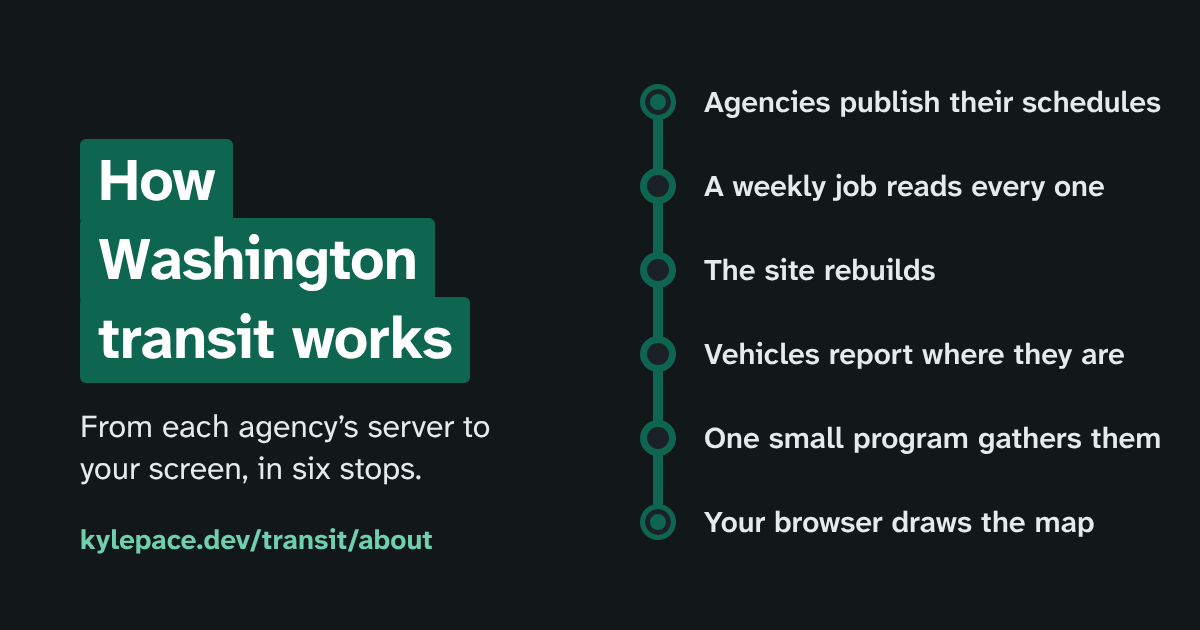
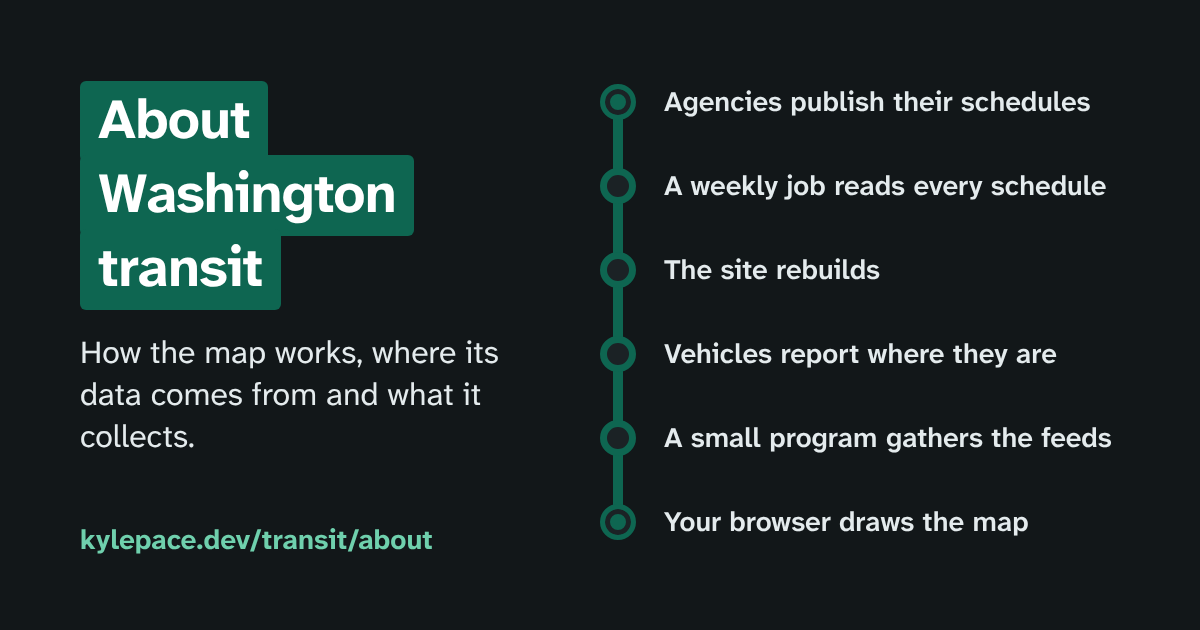
About page: standard title and headings, plain step names
- The title is About Washington transit, with no lede above the first section
- Sections use the shared headings: What it is, How it works, Where the data comes from, Good to know, Privacy, Get in touch
- Each step has a Where it runs line; the share card matches

Claude-Session: https://claude.ai/code/session_015KDcQDvS6NT5BmgyMsjti6

Changed region(s): [[0.0617, 0.1206, 0.4317, 0.7841], [0.4933, 0.1206, 0.9867, 0.8746]]

diff --git a/design/og-about.html b/design/og-about.html
@@ -7,29 +7,29 @@
 @font-face{font-family:A;font-weight:700;src:url("../node_modules/@fontsource/atkinson-hyperlegible-next/files/atkinson-hyperlegible-next-latin-700-normal.woff2")}
 html,body{margin:0}
 body{width:1200px;height:630px;overflow:hidden;position:relative;background:#121719;font-family:A;color:#e4ebed}
-.copy{position:absolute;left:80px;top:0;bottom:0;width:440px;display:flex;flex-direction:column;justify-content:center;gap:28px}
-h1{margin:0;font-size:60px;font-weight:700;line-height:1.32;letter-spacing:-.015em;color:#fff}
+.copy{position:absolute;left:80px;top:0;bottom:90px;width:440px;display:flex;flex-direction:column;justify-content:center;gap:28px}
+h1{margin:0;font-size:56px;font-weight:700;line-height:1.32;letter-spacing:-.015em;color:#fff}
 h1 span{background:#0e6651;padding:2px 18px 6px;border-radius:6px;box-decoration-break:clone;-webkit-box-decoration-break:clone}
 p{margin:0;font-size:32px;line-height:1.3}
 .url{position:absolute;left:80px;bottom:72px;font-size:28px;font-weight:700;color:#6fd0ad}
 /* The strip map. */
-ol{position:absolute;left:640px;top:84px;margin:0;padding:0;list-style:none}
-li{position:relative;height:84px;padding-left:64px;font-size:30px;font-weight:600;line-height:36px}
+ol{position:absolute;left:600px;top:84px;margin:0;padding:0;list-style:none}
+li{position:relative;height:84px;padding-left:64px;font-size:28px;font-weight:600;line-height:36px}
 li::before{content:"";position:absolute;left:13px;top:18px;height:84px;width:10px;background:#0e6651}
 li:last-child::before{display:none}
 li::after{content:"";position:absolute;left:0;top:0;width:36px;height:36px;box-sizing:border-box;border:7px solid #0e6651;border-radius:50%;background:#1b2225}
 li:first-child::after,li:last-child::after{background:#0e6651;box-shadow:inset 0 0 0 5px #1b2225;border-width:5px}
 </style></head><body>
 <div class="copy">
-  <h1><span>How Washington transit works</span></h1>
-  <p>From each agency’s server to your screen, in six stops.</p>
+  <h1><span>About Washington transit</span></h1>
+  <p>How the map works, where its data comes from and what it collects.</p>
 </div>
 <ol>
   <li>Agencies publish their schedules</li>
-  <li>A weekly job reads every one</li>
+  <li>A weekly job reads every schedule</li>
   <li>The site rebuilds</li>
   <li>Vehicles report where they are</li>
-  <li>One small program gathers them</li>
+  <li>A small program gathers the feeds</li>
   <li>Your browser draws the map</li>
 </ol>
 <div class="url">kylepace.dev/transit/about</div>

diff --git a/AGENTS.md b/AGENTS.md
@@ -79,7 +79,8 @@ Every project uses the same rules, so charts read the same way everywhere.
 - Leave Amplitude's own `[Amplitude] …` events alone. Add custom events only for actions that answer a real product question; autocapture covers page views and clicks.
 - **One Amplitude project per product.**
 - kylepace.dev and every experiment on it share the kylepace.dev project, so each experiment's custom events also send `experiment` with the project's slug (`experiment: "skill-tree"`).
-- **Tracking plan first:** add each new event to the project's tracking plan in Amplitude, with a description and category, when it ships. Nothing should arrive as "unexpected".
+- **Every new feature ships with its events.** Building a feature includes its analytics: the events that say whether people find it and use it, written in the same change as the feature, not left as a follow-up. Say in your report which events you added, or why the feature needs none.
+- **Tracking plan first:** add each new event and its properties to the project's tracking plan in Amplitude, with a description and category, as part of the same piece of work. Do it yourself when you can reach Amplitude; if you can't, say so and list exactly what needs adding. Nothing should arrive as "unexpected".
 - **Renaming an event:** rename it in code, then merge the old name into the new one in Amplitude so history stays connected. Don't rename in Amplitude alone.
 - **New product:** create its Amplitude project and add a row for it to the "All projects overview" dashboard. A new experiment on kylepace.dev needs neither: it appears there by page path.
 
@@ -96,7 +97,8 @@ Every project uses the same rules, so charts read the same way everywhere.
 - Before building a page or app's look, write a short plan in `design/PLAN.md`: the subject and who it's for, the one bold element, 4 to 6 named colors (light and dark), and the layout as a sketch. Take the ideas from the subject's own world, not from other websites. If a frontend-design skill is available, load it.
 - Check the plan against the generated defaults and change anything that matches: a big headline over a muted sentence and a pill button; pills or one corner radius on everything; grids of identical cards; small labels above headings; colored dots or squares as decoration; details joined with middle dots; monospace for small labels; copy that explains the interface instead of using it.
 - Spend boldness in one place and keep the rest quiet. Look at screenshots (phone and desktop, light and dark) before calling it done.
-- Experiments on kylepace.dev are their own pages (kp-design's `LabLayout`) with their own look. The app comes first; the explanation goes in an About section linked from the top bar.
+- Experiments on kylepace.dev are their own pages (kp-design's `LabLayout`) with their own look. The app comes first; the explanation goes on its About page, linked from the top bar.
+- About pages use the same title, headings and step format everywhere (the `about-page` skill). The look can follow the project's theme; the words never do.
 
 ### How things get built
 
@@ -158,6 +160,7 @@ Match the checking to the change. If you're unsure which tier a change is, use t
 **Tier 2: something people see or use changed.** Layout, styles, a component, a new control, new behavior.
 
 - Everything in tier 1.
+- A new feature has its events in code and in the Amplitude tracking plan (see "Analytics events").
 - Run the project's check command (`npm run check` where a project has one). It runs axe on every page in light and dark, fails on sideways scrolling, and saves screenshots at 320, 768, 1280 and 1920 px. Fix what it finds.
 - Look at the changed screen in light and dark, at the smallest size and a large one.
 - Use new controls with the keyboard (and VoiceOver in apps): reachable, visible focus, a name that makes sense.
@@ -184,7 +187,7 @@ Washington transit, live: every bus, train and ferry in Washington that reports 
 - **OneBusAway key:** Sound Transit, Pierce Transit, Washington State Ferries and the Seattle Streetcar come through OneBusAway Puget Sound. The Worker reads the `OBA_API_KEY` secret and falls back to the shared `TEST` key.
 - **The map:** `src/components/TransitMap.astro` (markup, styles) and `transit-map.ts` (MapLibre logic). The basemap is OpenFreeMap, approved for this project only (`.agents/allowed-hosts.txt`).
 - **It's its own Cloudflare Worker (`wa-transit-map`) on the hub's domain.** The routes in `wrangler.jsonc` claim `kylepace.dev/transit` and `/transit/*`. Everything it serves, including the live API, lives under `/transit/`. Don't use Astro's `base` option; with the Cloudflare adapter it serves files from the wrong folder.
-- **It stands on its own, not as a page of kylepace.dev.** The shell is kp-design's `LabLayout` (a back link to kylepace.dev, a one-line footer, display settings and analytics to the shared kylepace.dev Amplitude project), pinned to a commit in package.json. The bar's right side holds the lab's own links (Live map, Agencies, About). About is its own page, `src/pages/transit/about.astro` (`/transit/about/`): how the map works, as a strip map with a stop for each step the data takes, with counts and dates read from the data files. If how the data is collected or served changes, change that page too. The map and agencies pages keep a short `#about` section with credits. LabLayout gives no heading sizes, page width or prose styles, so each page styles its own layout.
+- **It stands on its own, not as a page of kylepace.dev.** The shell is kp-design's `LabLayout` (a back link to kylepace.dev, a one-line footer, display settings and analytics to the shared kylepace.dev Amplitude project), pinned to a commit in package.json. The bar's right side holds the lab's own links (Live map, Agencies, About). About is its own page, `src/pages/transit/about.astro` (`/transit/about/`), with the standard title, headings and step format from the `about-page` skill; its "How it works" steps are drawn as a strip map, with counts and dates read from the data files. If how the data is collected or served changes, change that page too. The map and agencies pages keep a short `#about` section with credits. LabLayout gives no heading sizes, page width or prose styles, so each page styles its own layout.
 - **Its look is its own:** `src/styles/theme.css` overrides kp-design's tokens (Shore, Sound, Guide green) and holds the shared bits (the bar links, the green sign plate). The plan behind it is `design/PLAN.md`: the map fills the window with one sign mounted on it, the agencies page is a directory, no pills, eyebrows, middle dots or monospace labels. `transit-map.ts` retints the basemap's land and water to match (`BASEMAP`), so keep the two in step.
 - **Share cards:** `design/og.html` and `design/og-agencies.html` draw the lab's sign, one line and the address over the left side of the original artwork (`design/base-*.png`), rendered to `public/transit/share.png` and `share-agencies.png`. `design/og-about.html` is the about page's card (`share-about.png`), drawn from scratch with the same strip map.
 - Run `npm run build` before pushing; it must pass. Cloudflare Workers Builds deploys `main`.

diff --git a/.agents/skills/about-page/SKILL.md b/.agents/skills/about-page/SKILL.md
@@ -1,0 +1,49 @@
+---
+name: about-page
+description: Write or update a project's About page (how it works, where its data comes from, privacy). Use when adding an About page to a lab, app site or tool, when changing how a project collects or serves its data, or when asked to explain how something works on the site itself.
+---
+
+# About pages
+
+Every lab and app site has one About page, and every one uses the same words for the same things, so a visitor who has read one knows how to read the next. The look belongs to the project (a transit line, graph paper, a recipe card layout). The words don't: headings and step names are plain and the same everywhere.
+
+## Where it lives
+
+- Address: `/<slug>/about/`. The top bar link says **About**.
+- One page. A project with a lot to say (Seattle Grocery Deals) can split "How it works" onto its own page with the same headings.
+
+## The page
+
+**Title:** `About <name>`, using the project's name as it's listed (About Washington transit, About World cuisine). Nothing above or below it: no tagline, no lede, no "here's how" sentence. The page starts with the first section.
+
+**Sections**, in this order, with exactly these headings. Leave out any that don't apply; don't add others.
+
+| Heading | What goes in it |
+| --- | --- |
+| What it is | One or two short paragraphs: what it does and who it's for. Link to the project's main page. |
+| How to use it | Only if it isn't obvious from the page: how to read the controls or the drawing. |
+| How it works | Numbered steps, in the order things happen, from the source to the visitor's screen. |
+| Where the data comes from | Every source, linked, with its license where it has one. Credits that a source requires go here. |
+| Good to know | Limits and accuracy: how old the data can be, what's missing, what it's not for, how it's tested. |
+| Ask your AI assistant | Only if the project has an MCP server. |
+| For site owners | Only if the project collects from other people's sites. |
+| Privacy | What's collected (usually only kylepace.dev's anonymous analytics), what stays on the device, which outside hosts are contacted. Link to the site's privacy page. |
+| Get in touch | Where to send a correction or question (mail@kylepace.net, or the project's own address) and the public code link, if the repo is public. |
+
+## Steps in "How it works"
+
+Each step has three parts:
+
+1. **A name**: a plain sentence about what happens. "Read the list", "Check the new data before publishing", "Your browser draws the map". Never a metaphor or a play on the project's theme ("Plate it", "Taste before serving", "Adds the play").
+2. **A "Where it runs:" line**, written exactly like that: "Where it runs: GitHub Actions, once a week."
+3. **One or two short paragraphs** in plain language.
+
+Name real tools once, plainly (GitHub Actions, Cloudflare, Wikipedia). Explain a term the first time (GTFS, MCP). Numbers and dates come from the project's data at build time, never typed in.
+
+## Words to avoid
+
+Theme words in headings or step names ("Notes from the cook", "The route, stop by stop", "Ingredients" and "Method" as headings), headings phrased as teasers, and "Here's how…" openers. The theme can show up in the drawing and in an occasional phrase inside a paragraph, never in the structure.
+
+## Share card
+
+Title is the page title (`About <name>`), one plain line under it saying what the page covers, and the address. Make it with the `share-card` skill, in the project's own look.

diff --git a/.agents/skills/page-check/SKILL.md b/.agents/skills/page-check/SKILL.md
@@ -22,7 +22,7 @@ It checks every page the build wrote as an HTML file and fails on:
 
 It also saves full-page screenshots to `.check/`, named `<page>-<width>-<light|dark>.png`. In a full-page shot, anything fixed to the screen (the display settings button, a sticky bar) is drawn once, where the first screen ends, so it can look like it covers content in the middle of the page. It doesn't; check how it sits at the very bottom of the page instead. Passing the check is not the same as looking: open the screenshots of the pages you changed (at least the smallest width and a large one, both themes) and check nothing overlaps, clips or looks off.
 
-Useful options: `--pages /apps/,/labs/` to check only some pages, `--no-shots` to skip screenshots, `--dir <folder>` if the build isn't in `dist/client`, `dist` or `_site`. Locally, set `CHROME=/path/to/chrome` to use a browser that's already installed.
+Useful options: `--pages /apps/,/labs/` to check only some pages, `--sample 3` on a big site to check three pages from each folder of look-alike pages (every store, every week) instead of all of them, `--no-shots` to skip screenshots, `--dir <folder>` if the build isn't in `dist/client`, `dist` or `_site`. Locally, set `CHROME=/path/to/chrome` to use a browser that's already installed.
 
 What it can't see: pages rendered on the server at request time, anything behind a click (menus, dialogs, a map's controls), keyboard order, and whether alt text is any good. Check those by hand for the screens you changed.
 

diff --git a/design/PLAN.md b/design/PLAN.md
@@ -134,11 +134,10 @@ First draft, and what changed:
 
 ## The about page
 
-`/transit/about/` explains how the map works. It's the one place the lab draws a route of
-its own: the path the data takes, from each agency's server to the screen, set as a strip
-map. A Guide green line runs down the left with a stop for every step, terminals filled at
-both ends, like the line diagram above the doors of a train car. Each stop has a name, one
-plain line saying where that step runs, and a short paragraph. The page's name sits on the
-same green plate as the other pages. Everything after the line is quiet: ruled headings
-and body text, under 70 characters a line. Counts and dates are read from the data files
-at build time, never typed in.
+`/transit/about/` uses the standard About page title, headings and step format (the
+`about-page` skill): the words are the same as every other project's, and the look is this
+lab's. The title sits on the same green plate as the other pages. "How it works" is the one
+drawn part: its steps run down a Guide green line with a stop for each, terminals filled at
+both ends, like the line diagram above the doors of a train car. Everything else is ruled
+headings and body text, under 70 characters a line. Counts and dates are read from the
+data files at build time, never typed in.
